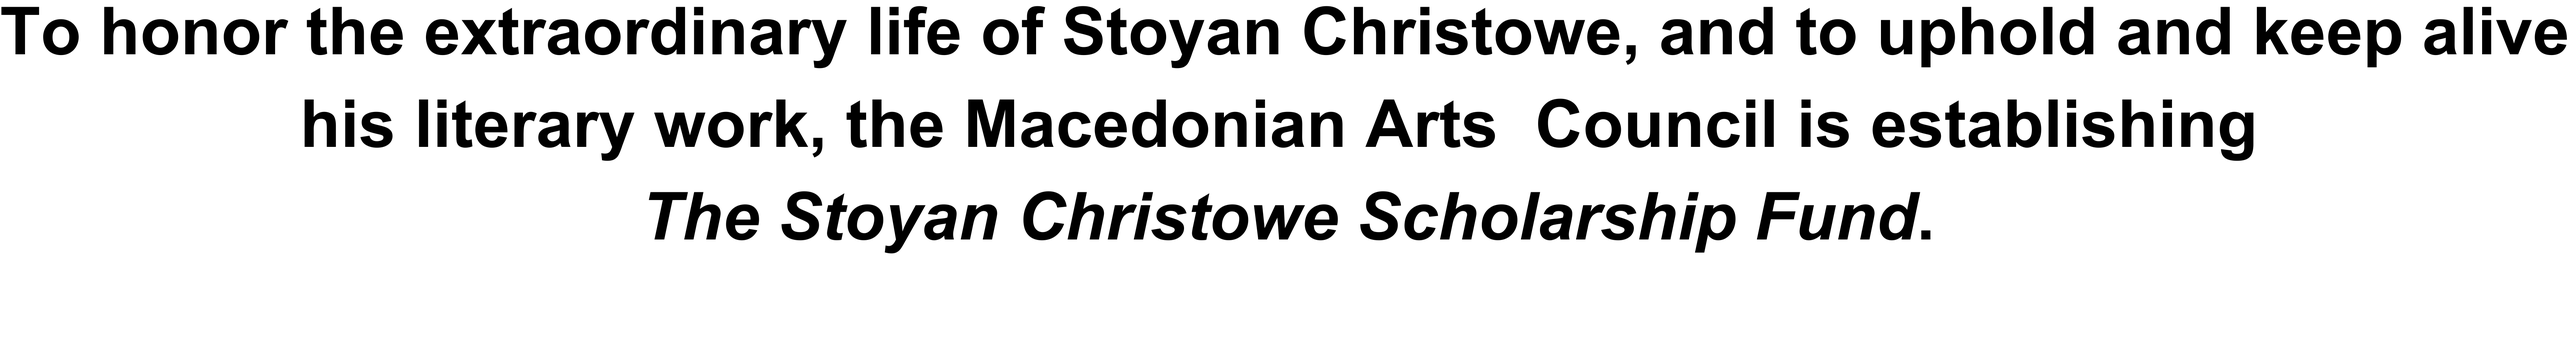
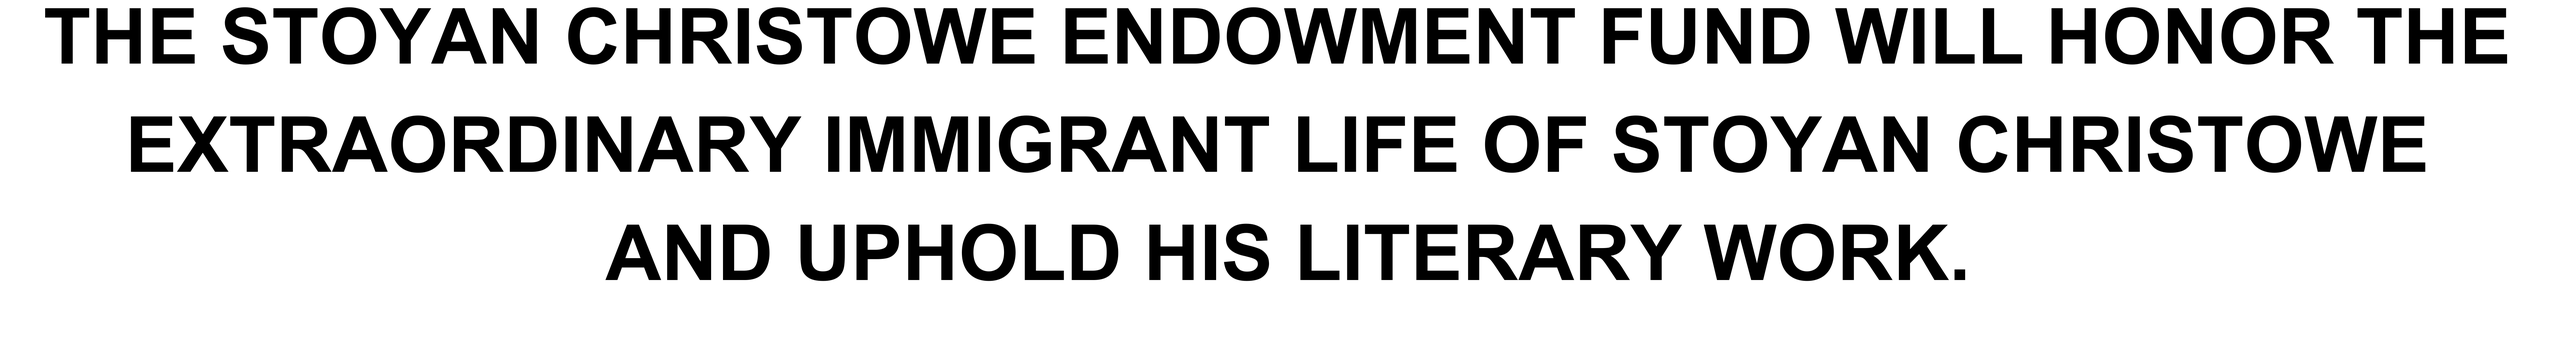
update education

Changed region(s): [[0.0, 0.0, 1.0, 0.1875], [0.0312, 0.2812, 0.9375, 0.5], [0.2188, 0.5312, 0.7812, 0.7812]]

diff --git a/education.html b/education.html
@@ -230,9 +230,10 @@
             <div class="section-text mbr-text mbr-fonts-style align-center mbr-fonts-style display-7 py-5" style="text-align: justify; text-justify: inter-word">
                 <p>
                     Born in Ottoman Macedonia in 1898, Stoyan Christowe immigrated to the United States in 1911, with a burning desire to be an American’s American. He came of age on the Great Plains and went on to be a well-known journalist, critic and lover of the English
-                    language. In all, he wrote six books, numerous short stories and articles. He ended his career as a Vermont State Representative and then a Senator. Stoyan Christowe remained passionate about his adopted country throughout his life
-                    and is remembered as a staunch defender of the democratic way. His is a quintessential American immigrant story that will be remembered through an endowment fund in support of students of literature and political science, in his native
-                    Macedonia.
+                    language. In all, he wrote six books, numerous short stories and articles. He ended his career as a Vermont State Representative and then a Senator. His is a quintessential American immigrant story. While he remained passionate about
+                    his native land, his steadfast service to his adoptive land makes him an exceptional defender of the democratic way.
+
+
                 </p>
             </div>
         </div>
